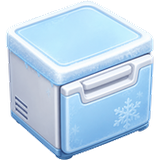
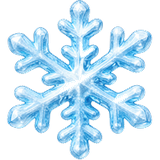
Rebost: icona de congelador = floc de neu de gel (Canva MAHZp05v1aM)
Claude-Session: https://claude.ai/code/session_01EDSP4xsThy8KRz6733WLVq

diff --git a/nova/index.html b/nova/index.html
@@ -499,7 +499,7 @@ html,body{-webkit-touch-callout:none;-webkit-user-select:none;user-select:none;-
 
 <script>/* xarxa de seguretat: si l'app no arrenca, botó per actualitzar */setTimeout(function(){var a=document.getElementById("app");if(a&&!a.innerHTML.trim()){a.innerHTML='<div style="padding:40px 20px;text-align:center;font:600 17px system-ui"><p>No s\'ha pogut obrir l\'app.</p><button id="sosup" style="font:700 17px system-ui;padding:12px 22px;border-radius:999px;border:0;background:#17599a;color:#fff">Actualitza</button></div>';document.getElementById("sosup").onclick=function(){(window.caches?caches.keys().then(function(k){return Promise.all(k.map(function(x){return caches.delete(x)}))}):Promise.resolve()).then(function(){location.reload()})};}},2500);</script>
 <script>
-const APPV="1793519597";let UPD=0,UPS=0;
+const APPV="1793519710";let UPD=0,UPS=0;
 
 const IC={"docs": "<svg viewBox=\"0 0 40 40\" width=\"22\" height=\"22\" aria-hidden=\"true\"><path d=\"M9 4h15l8 8v23a2 2 0 0 1-2 2H9a2 2 0 0 1-2-2V6a2 2 0 0 1 2-2z\" fill=\"#fff\" stroke=\"#5b6b7a\" stroke-width=\"1.5\"/><path d=\"M24 4v8h8\" fill=\"#e3e8ee\" stroke=\"#5b6b7a\" stroke-width=\"1.5\" stroke-linejoin=\"round\"/><circle cx=\"27\" cy=\"29\" r=\"8.5\" fill=\"#3f8a3a\" stroke=\"#fff\" stroke-width=\"1.6\"/><path d=\"M27 33.5v-9M23 28l4-4 4 4\" fill=\"none\" stroke=\"#fff\" stroke-width=\"2.2\" stroke-linecap=\"round\" stroke-linejoin=\"round\"/><path d=\"M12 17h10M12 21h7\" stroke=\"#9aa6b2\" stroke-width=\"1.6\" stroke-linecap=\"round\"/></svg>", "receptari": "<svg viewBox=\"0 0 40 40\" width=\"22\" height=\"22\" aria-hidden=\"true\"><path d=\"M6 7c5-2 10-2 14 1v27c-4-3-9-3-14-1z\" fill=\"#fff6e3\" stroke=\"#8a5a2b\" stroke-width=\"1.4\" stroke-linejoin=\"round\"/><path d=\"M34 7c-5-2-10-2-14 1v27c4-3 9-3 14-1z\" fill=\"#fff6e3\" stroke=\"#8a5a2b\" stroke-width=\"1.4\" stroke-linejoin=\"round\"/><path d=\"M4 9v26c6-2 11-2 16 1 5-3 10-3 16-1V9\" fill=\"none\" stroke=\"#c8352b\" stroke-width=\"2.4\" stroke-linejoin=\"round\"/><path d=\"M10 14h6M10 18h6M24 14h6M24 18h5\" stroke=\"#c9a46a\" stroke-width=\"1.5\" stroke-linecap=\"round\"/><path d=\"M27 24c0-2 3-2 3 0 0 2-3 3.5-3 3.5s-3-1.5-3-3.5c0-2 3-2 3 0z\" fill=\"#e0533f\"/></svg>", "menu": "<svg viewBox=\"0 0 40 40\" width=\"22\" height=\"22\" aria-hidden=\"true\"><rect x=\"5\" y=\"7\" width=\"30\" height=\"28\" rx=\"3\" fill=\"#fff\" stroke=\"#2f74b5\" stroke-width=\"1.5\"/><path d=\"M5 10a3 3 0 0 1 3-3h24a3 3 0 0 1 3 3v4H5z\" fill=\"#2f74b5\"/><path d=\"M12 4v6M28 4v6\" stroke=\"#1f4f80\" stroke-width=\"2.2\" stroke-linecap=\"round\"/><circle cx=\"20\" cy=\"25\" r=\"6.5\" fill=\"#f3e3c4\" stroke=\"#c9a46a\" stroke-width=\"1.3\"/><circle cx=\"20\" cy=\"25\" r=\"3.8\" fill=\"#fff\" stroke=\"#e2cfa6\" stroke-width=\"1\"/><path d=\"M10.5 20v10M9 20v3.5a1.5 1.5 0 0 0 3 0V20M29.5 20c1.6 0 1.8 3 1.8 4.6 0 1-.8 1.4-1.8 1.4V30\" fill=\"none\" stroke=\"#8a93a0\" stroke-width=\"1.2\" stroke-linecap=\"round\"/></svg>", "treball": "<svg viewBox=\"0 0 40 40\" width=\"22\" height=\"22\" aria-hidden=\"true\"><rect x=\"8\" y=\"6\" width=\"24\" height=\"30\" rx=\"3\" fill=\"#c98a4b\" stroke=\"#7a4a1e\" stroke-width=\"1.4\"/><rect x=\"11\" y=\"10\" width=\"18\" height=\"23\" rx=\"1.5\" fill=\"#fff\"/><rect x=\"15\" y=\"3.5\" width=\"10\" height=\"5\" rx=\"1.5\" fill=\"#9aa0a6\" stroke=\"#6b7177\" stroke-width=\"1\"/><path d=\"M14 16l2 2 3.5-3.5M14 23l2 2 3.5-3.5\" fill=\"none\" stroke=\"#3f8a3a\" stroke-width=\"1.9\" stroke-linecap=\"round\" stroke-linejoin=\"round\"/><path d=\"M22 17h5M22 24h5M14 29.5h13\" stroke=\"#b9bfc6\" stroke-width=\"1.6\" stroke-linecap=\"round\"/></svg>", "despesa": "<svg viewBox=\"0 0 40 40\" width=\"22\" height=\"22\" aria-hidden=\"true\"><path d=\"M8 4h20v31l-2.5-2-2.5 2-2.5-2-2.5 2-2.5-2-2.5 2-2.5-2L8 35z\" fill=\"#fff\" stroke=\"#7a838b\" stroke-width=\"1.4\" stroke-linejoin=\"round\"/><path d=\"M12 10h12M12 14h9M12 18h12\" stroke=\"#b9bfc6\" stroke-width=\"1.6\" stroke-linecap=\"round\"/><circle cx=\"27\" cy=\"27\" r=\"8\" fill=\"#f2c14a\" stroke=\"#c48a1a\" stroke-width=\"1.5\"/><path d=\"M29.6 23.6a4 4 0 1 0 0 6.8M22.8 25.8h5.4M22.8 28.2h5.4\" fill=\"none\" stroke=\"#8a5a10\" stroke-width=\"1.6\" stroke-linecap=\"round\"/></svg>", "hudsilo": "<svg aria-hidden=\"true\" width=\"30\" height=\"30\" viewBox=\"0 0 64 64\"><defs><linearGradient id=\"hsr\" x1=\"0\" x2=\"1\"><stop offset=\"0\" stop-color=\"#8f1a12\"/><stop offset=\".28\" stop-color=\"#d8392a\"/><stop offset=\".55\" stop-color=\"#e9503d\"/><stop offset=\"1\" stop-color=\"#9e2016\"/></linearGradient><linearGradient id=\"hsroof\" x1=\"0\" x2=\"1\"><stop offset=\"0\" stop-color=\"#3f3029\"/><stop offset=\".45\" stop-color=\"#7b6556\"/><stop offset=\"1\" stop-color=\"#4a3a31\"/></linearGradient><linearGradient id=\"hsgr\" x1=\"0\" y1=\"0\" x2=\"0\" y2=\"1\"><stop offset=\"0\" stop-color=\"#f7d36a\"/><stop offset=\".25\" stop-color=\"#e3a43a\"/><stop offset=\"1\" stop-color=\"#b8711e\"/></linearGradient><linearGradient id=\"hsmet\" x1=\"0\" x2=\"1\"><stop offset=\"0\" stop-color=\"#5d666e\"/><stop offset=\".5\" stop-color=\"#b9c2ca\"/><stop offset=\"1\" stop-color=\"#626b73\"/></linearGradient><linearGradient id=\"hsst\" x1=\"0\" y1=\"0\" x2=\"0\" y2=\"1\"><stop offset=\"0\" stop-color=\"#e4d8c6\"/><stop offset=\"1\" stop-color=\"#a99880\"/></linearGradient></defs><ellipse cx=\"32\" cy=\"58.5\" rx=\"17\" ry=\"4.2\" fill=\"url(#hsst)\" stroke=\"#7d6c56\" stroke-width=\"1.2\"/><path d=\"M17 17h30l-2.6 40.6c-6.2 2.2-18.6 2.2-24.8 0z\" fill=\"url(#hsr)\" stroke=\"#5f130c\" stroke-width=\"1.5\" stroke-linejoin=\"round\"/><path d=\"M22.4 18.5l1 40M27.6 18.6l.4 40.6M32.8 18.6v40.8M38 18.6l-.4 40.6M43.2 18.5l-1 40\" stroke=\"#7d160e\" stroke-width=\"1\" opacity=\".75\"/><path d=\"M20.2 18.8l1.6 38.4\" stroke=\"#f47b66\" stroke-width=\"1.6\" opacity=\".7\"/><path d=\"M17.3 27.5c8.6 2.8 20.8 2.8 29.4 0M18.3 44c8 2.6 19.4 2.6 27.4 0\" fill=\"none\" stroke=\"#5f130c\" stroke-width=\"3.4\" opacity=\".35\"/><path d=\"M17.3 27c8.6 2.8 20.8 2.8 29.4 0M18.3 43.5c8 2.6 19.4 2.6 27.4 0\" fill=\"none\" stroke=\"#fbf6ee\" stroke-width=\"2.4\"/><path d=\"M28.4 21.5h7.2l-1.2 33h-4.8z\" fill=\"#fbf6ee\" stroke=\"#6b1a10\" stroke-width=\"1\"/><path d=\"M29.9 23.2h4.2l-1 29.6h-2.2z\" fill=\"#5d120b\"/><path d=\"M30.4 36.5h3.4l-.7 16.3h-2.2z\" fill=\"url(#hsgr)\"/><path d=\"M30.2 37c.3-4.4 3.5-4.4 3.8 0z\" fill=\"#f7d36a\" stroke=\"#c48a26\" stroke-width=\".5\"/><circle cx=\"31.4\" cy=\"34.8\" r=\".5\" fill=\"#fff3c4\"/><circle cx=\"32.8\" cy=\"35.6\" r=\".4\" fill=\"#fff3c4\"/><path d=\"M19.5 41l-2.6.6.4 14.8M44.5 41l2.6.6-.4 14.8\" fill=\"none\" stroke=\"url(#hsmet)\" stroke-width=\"2.4\" stroke-linecap=\"round\" stroke-linejoin=\"round\"/><rect x=\"15.6\" y=\"55.3\" width=\"3.4\" height=\"2\" rx=\".6\" fill=\"#7d868f\" stroke=\"#3f464c\" stroke-width=\".6\"/><rect x=\"45\" y=\"55.3\" width=\"3.4\" height=\"2\" rx=\".6\" fill=\"#7d868f\" stroke=\"#3f464c\" stroke-width=\".6\"/><path d=\"M46 21.4h4.4v3.4\" fill=\"none\" stroke=\"url(#hsmet)\" stroke-width=\"2.2\" stroke-linecap=\"round\"/><path d=\"M50.4 24.8c1.4 4 .6 8 -1 10\" fill=\"none\" stroke=\"#a87c4f\" stroke-width=\".9\"/><path d=\"M32 3.5 14.2 17.4c5 2.4 30.6 2.4 35.6 0z\" fill=\"url(#hsroof)\" stroke=\"#2a201b\" stroke-width=\"1.5\" stroke-linejoin=\"round\"/><path d=\"M32 4.4l-7.6 13.8M32 4.4l7.2 13.8\" stroke=\"#8d7766\" stroke-width=\".8\" opacity=\".6\"/><path d=\"M21.6 11l6.2-2.2 2.4 4.2-6.4 2.2z\" fill=\"#d3d9de\" stroke=\"#5f676e\" stroke-width=\"1\"/><path d=\"M24.4 11.6l2.4-.8\" stroke=\"#5f676e\" stroke-width=\"1\" stroke-linecap=\"round\"/></svg>", "shopico": "<svg aria-hidden=\"true\" width=\"34\" height=\"34\" viewBox=\"0 0 64 64\"><defs><linearGradient id=\"bw\" x1=\"0\" x2=\"0\" y1=\"0\" y2=\"1\"><stop offset=\"0\" stop-color=\"#9c5f30\"/><stop offset=\"1\" stop-color=\"#6a3b19\"/></linearGradient><linearGradient id=\"bp\" x1=\"0\" x2=\"1\"><stop offset=\"0\" stop-color=\"#6f4120\"/><stop offset=\".5\" stop-color=\"#a86a35\"/><stop offset=\"1\" stop-color=\"#6f4120\"/></linearGradient><linearGradient id=\"bc\" x1=\"0\" x2=\"0\" y1=\"0\" y2=\"1\"><stop offset=\"0\" stop-color=\"#e4b47a\"/><stop offset=\"1\" stop-color=\"#b9824a\"/></linearGradient><linearGradient id=\"bcin\" x1=\"0\" x2=\"0\" y1=\"0\" y2=\"1\"><stop offset=\"0\" stop-color=\"#7a4a24\"/><stop offset=\"1\" stop-color=\"#a86e3c\"/></linearGradient><linearGradient id=\"awr\" x1=\"0\" x2=\"0\" y1=\"0\" y2=\"1\"><stop offset=\"0\" stop-color=\"#f05a48\"/><stop offset=\"1\" stop-color=\"#c62a20\"/></linearGradient><linearGradient id=\"aww\" x1=\"0\" x2=\"0\" y1=\"0\" y2=\"1\"><stop offset=\"0\" stop-color=\"#ffffff\"/><stop offset=\"1\" stop-color=\"#e9ddd0\"/></linearGradient><radialGradient id=\"ar\" cx=\".35\" cy=\".35\" r=\".7\"><stop offset=\"0\" stop-color=\"#ff8a7a\"/><stop offset=\".5\" stop-color=\"#e3261c\"/><stop offset=\"1\" stop-color=\"#9c120c\"/></radialGradient><radialGradient id=\"ag\" cx=\".35\" cy=\".35\" r=\".7\"><stop offset=\"0\" stop-color=\"#d9ff9a\"/><stop offset=\".5\" stop-color=\"#6cc43a\"/><stop offset=\"1\" stop-color=\"#2f7a1a\"/></radialGradient><linearGradient id=\"bk\" x1=\"0\" x2=\"1\"><stop offset=\"0\" stop-color=\"#7a4a24\"/><stop offset=\".5\" stop-color=\"#c0814a\"/><stop offset=\"1\" stop-color=\"#7a4a24\"/></linearGradient></defs><path d=\"M4 50l10-5h40l4 6-10 7H8z\" fill=\"url(#bw)\" stroke=\"#3f230e\" stroke-width=\"1.3\" stroke-linejoin=\"round\"/><path d=\"M12 47l-3 9M20 46l-3 11M28 46l-2 12M36 46l-1 12M44 46l1 12M52 47l2 9\" stroke=\"#4a2a12\" stroke-width=\".9\" opacity=\".7\"/><rect x=\"49\" y=\"12\" width=\"3.6\" height=\"40\" rx=\"1\" fill=\"url(#bp)\" stroke=\"#3f230e\" stroke-width=\"1.1\"/><rect x=\"13.2\" y=\"18\" width=\"3.4\" height=\"28\" rx=\"1\" fill=\"url(#bp)\" stroke=\"#3f230e\" stroke-width=\"1.1\"/><path d=\"M16 40h32v9H17z\" fill=\"#a8622e\" stroke=\"#4a2a12\" stroke-width=\"1.1\"/><path d=\"M17 44.5h31\" stroke=\"#7a431c\" stroke-width=\".9\"/><path d=\"M13 37.5l34-5 4 7.6-35 5.4z\" fill=\"#f1dfbd\" stroke=\"#6b3f17\" stroke-width=\"1.1\" stroke-linejoin=\"round\"/><path d=\"M15 36.5l31.6-4.8 3 6-32 4.9z\" fill=\"url(#bc)\" stroke=\"#5e3614\" stroke-width=\"1.1\" stroke-linejoin=\"round\"/><path d=\"M18.4 37.6l9-1.4 1 2.6-9 1.4zM29.4 35.9l9-1.4 1 2.6-9 1.4zM40.2 34.3l6-.9 1.1 2.6-6.1.9zM19.6 39.9l9-1.4.9 1.4-9 1.4zM30.6 38.2l9-1.4.9 1.4-9 1.4z\" fill=\"url(#bcin)\"/><path d=\"M27.4 36.2l2.1 4.3M38.4 34.5l2 4.3\" stroke=\"#5e3614\" stroke-width=\"1.2\"/><path d=\"M8.5 15.5C14 9 38 5.5 54 9.5l1.6 5\" fill=\"none\" stroke=\"#7a1e14\" stroke-width=\"1.4\"/><path d=\"M8.5 15.5 10 24.5c2.4 2 5.2 1.6 6.4-.6 2.2 2.1 5 1.8 6.3-.5 2.2 2 5 1.7 6.2-.6 2.2 2 5 1.6 6.2-.6 2.2 1.9 5 1.6 6.1-.7 2.2 1.9 4.9 1.5 6-.8 2.1 1.7 4.7 1.3 5.6-1L54 9.5C38 5.5 14 9 8.5 15.5z\" fill=\"url(#aww)\" stroke=\"#7a1e14\" stroke-width=\"1.4\" stroke-linejoin=\"round\"/><path d=\"M10 24.5c2.4 2 5.2 1.6 6.4-.6l-1.4-11.6-6.5 3.2zM22.7 23.4c2.2 2 5 1.7 6.2-.6l-1.2-13-6.7 1.4zM35.1 22.2c2.2 1.9 5 1.6 6.1-.7l-.6-13.1-6.6.4zM47.2 20.7c2.1 1.7 4.7 1.3 5.6-1L54 9.5l-6.4-1.1z\" fill=\"url(#awr)\"/><path d=\"M10.5 16.4c8-4.2 28-6 42.4-3.4\" fill=\"none\" stroke=\"#fff\" stroke-width=\"1\" opacity=\".55\"/><circle cx=\"31\" cy=\"7.3\" r=\"1.3\" fill=\"#a9b2ba\" stroke=\"#5f676e\" stroke-width=\".6\"/><circle cx=\"53.6\" cy=\"9.6\" r=\"1.3\" fill=\"#a9b2ba\" stroke=\"#5f676e\" stroke-width=\".6\"/><path d=\"M2.5 48.5h12l-1.4 9.5H4z\" fill=\"url(#bk)\" stroke=\"#4a2a12\" stroke-width=\"1.1\"/><path d=\"M3.2 52.3h10.6\" stroke=\"#9aa3ab\" stroke-width=\"1.6\"/><circle cx=\"5.6\" cy=\"47.2\" r=\"2.6\" fill=\"url(#ag)\"/><circle cx=\"9.4\" cy=\"46.4\" r=\"2.7\" fill=\"url(#ag)\"/><circle cx=\"12.3\" cy=\"47.6\" r=\"2.3\" fill=\"url(#ag)\"/><path d=\"M47 51.5h12l-1.4 9.5h-9.2z\" fill=\"url(#bk)\" stroke=\"#4a2a12\" stroke-width=\"1.1\"/><path d=\"M47.7 55.3h10.6\" stroke=\"#9aa3ab\" stroke-width=\"1.6\"/><circle cx=\"50.2\" cy=\"50.2\" r=\"2.6\" fill=\"url(#ar)\"/><circle cx=\"54\" cy=\"49.4\" r=\"2.7\" fill=\"url(#ar)\"/><circle cx=\"56.8\" cy=\"50.6\" r=\"2.3\" fill=\"url(#ar)\"/><path d=\"M54 46.8l.4-1.4\" stroke=\"#4a2a12\" stroke-width=\".8\"/></svg>", "veiico": "<svg aria-hidden=\"true\" width=\"32\" height=\"32\" viewBox=\"0 0 64 64\"><path d=\"M2 47c10-5 21-6 30-4s20 3 30-2v19H2z\" fill=\"#7fb944\"/><g stroke=\"#6b4423\" stroke-width=\"1.8\" stroke-linejoin=\"round\"><rect x=\"5\" y=\"32\" width=\"15\" height=\"14\" rx=\"1\" fill=\"#fbf1dc\"/><path d=\"M3 33.5 12.5 22 22 33.5z\" fill=\"#d1453b\"/><rect x=\"44\" y=\"32\" width=\"15\" height=\"14\" rx=\"1\" fill=\"#fbf1dc\"/><path d=\"M42 33.5 51.5 22 61 33.5z\" fill=\"#eaa63a\"/><rect x=\"38\" y=\"15\" width=\"4.5\" height=\"9\" fill=\"#a8562c\"/><rect x=\"19\" y=\"28\" width=\"26\" height=\"21\" rx=\"1.2\" fill=\"#fffaf0\"/><path d=\"M16 30 32 14l16 16z\" fill=\"#6e8c3c\"/><rect x=\"28.5\" y=\"38\" width=\"7\" height=\"11\" rx=\"1\" fill=\"#9a5a2b\"/></g><rect x=\"22.5\" y=\"32\" width=\"4.5\" height=\"4\" fill=\"#8cc7ec\"/><rect x=\"37\" y=\"32\" width=\"4.5\" height=\"4\" fill=\"#8cc7ec\"/></svg>", "crea": "<svg viewBox=\"0 0 40 40\" width=\"22\" height=\"22\" aria-hidden=\"true\"><path d=\"M8 4h15l7 7v24a2 2 0 0 1-2 2H8a2 2 0 0 1-2-2V6a2 2 0 0 1 2-2z\" fill=\"#fff\" stroke=\"#5b6b7a\" stroke-width=\"1.5\"/><path d=\"M23 4v7h7\" fill=\"#e3e8ee\" stroke=\"#5b6b7a\" stroke-width=\"1.5\" stroke-linejoin=\"round\"/><path d=\"M11 15h11M11 19h12M11 23h7\" stroke=\"#9aa6b2\" stroke-width=\"1.6\" stroke-linecap=\"round\"/><path d=\"M20 30 31 19l4 4-11 11z\" fill=\"#eaa63a\" stroke=\"#8a5a2b\" stroke-width=\"1.3\" stroke-linejoin=\"round\"/><path d=\"M31 19l1.6-1.6a1.4 1.4 0 0 1 2 0l2 2a1.4 1.4 0 0 1 0 2L35 23z\" fill=\"#e0533f\" stroke=\"#8a5a2b\" stroke-width=\"1.3\" stroke-linejoin=\"round\"/><path d=\"M20 30l4 4-6 2z\" fill=\"#f3e3c4\" stroke=\"#8a5a2b\" stroke-width=\"1.3\" stroke-linejoin=\"round\"/><path d=\"M18.6 34.4 18 36l1.6-.6z\" fill=\"#3d3d3d\"/></svg>", "qc": "<svg viewBox=\"0 0 40 40\" width=\"22\" height=\"22\" aria-hidden=\"true\"><path d=\"M15.5 19 20.3 7.2l3.3 1.3-3.4 10.8z\" fill=\"#eaa63a\" stroke=\"#a8562c\" stroke-width=\"1.3\" stroke-linejoin=\"round\"/><path d=\"M18 13.5l2 .8M17 16l1.8.7\" stroke=\"#a8562c\" stroke-width=\"1\" stroke-linecap=\"round\"/><path d=\"M21.5 7.6c-.9-2.6.2-4.3 1.6-4.9.6 1.8.4 3.6-.9 5.2zM22.3 8c1.6-2 3.6-2.2 5-1.4-1.3 1.3-3 1.9-5 1.4z\" fill=\"#7fb944\" stroke=\"#4f7a2a\" stroke-width=\"1\" stroke-linejoin=\"round\"/><path d=\"M25.5 19c-.3-4.2 1.9-7.2 5.6-8.4-.1 3.8-2 6.8-5.6 8.4z\" fill=\"#7fb944\" stroke=\"#4f7a2a\" stroke-width=\"1.2\" stroke-linejoin=\"round\"/><path d=\"M7 20h26v8a7 7 0 0 1-7 7H14a7 7 0 0 1-7-7z\" fill=\"#d8392a\" stroke=\"#8f1a12\" stroke-width=\"1.5\" stroke-linejoin=\"round\"/><path d=\"M4.5 19.5h31\" stroke=\"#8f1a12\" stroke-width=\"2.6\" stroke-linecap=\"round\"/><path d=\"M7 23.5H3.5M33 23.5h3.5\" stroke=\"#8f1a12\" stroke-width=\"2.4\" stroke-linecap=\"round\"/><path d=\"M11 24v4.5\" stroke=\"#f08a7a\" stroke-width=\"1.8\" stroke-linecap=\"round\"/></svg>", "casa": "<svg viewBox=\"0 0 40 40\" width=\"22\" height=\"22\" aria-hidden=\"true\"><ellipse cx=\"20\" cy=\"37.2\" rx=\"14\" ry=\"1.6\" fill=\"#000\" opacity=\".13\"/><path d=\"M7 19 20 7l13 12v17H7z\" fill=\"#f3e3c4\" stroke=\"#7a4a1e\" stroke-width=\"1.3\" stroke-linejoin=\"round\"/><path d=\"M4 20.5 20 5.5l16 15\" fill=\"none\" stroke=\"#c8352b\" stroke-width=\"3.4\" stroke-linecap=\"round\" stroke-linejoin=\"round\"/><rect x=\"26\" y=\"8\" width=\"4\" height=\"7\" fill=\"#9b5a2b\"/><rect x=\"16.5\" y=\"25\" width=\"7\" height=\"11\" rx=\"1\" fill=\"#9b5a2b\"/><path d=\"M14 21.5a3 3 0 0 1 6 0c0 2.6-3 4.4-3 4.4s-3-1.8-3-4.4zM20 21.5a3 3 0 0 1 6 0c0 2.6-3 4.4-3 4.4\" fill=\"none\"/><path d=\"M17.2 18.6c-1.6-1.6-4.2-.2-3.6 2 .5 1.8 3.6 3.6 3.6 3.6s3.1-1.8 3.6-3.6c.6-2.2-2-3.6-3.6-2z\" fill=\"#e0533f\" transform=\"translate(2.8 -1.2)\"/></svg>", "graner": "<svg viewBox=\"0 0 40 40\" width=\"22\" height=\"22\" aria-hidden=\"true\"><ellipse cx=\"20\" cy=\"37.2\" rx=\"15\" ry=\"1.6\" fill=\"#000\" opacity=\".13\"/><path d=\"M6 17.5 9.5 9.5 20 4.5 30.5 9.5 34 17.5V36H6z\" fill=\"#c8352b\" stroke=\"#7d1d17\" stroke-width=\"1.1\" stroke-linejoin=\"round\"/><path d=\"M3.5 18.5 8.4 8.2 20 2.8 31.6 8.2 36.5 18.5\" fill=\"none\" stroke=\"#2f3236\" stroke-width=\"3.2\" stroke-linecap=\"round\" stroke-linejoin=\"round\"/><path d=\"M9 21h22\" stroke=\"#fff\" stroke-width=\"1.6\"/><path d=\"M10 12.4 9.6 13\" stroke=\"#a52a22\" stroke-width=\".8\"/><path d=\"M12 24v12M28 24v12\" stroke=\"#a52a22\" stroke-width=\".8\" opacity=\".7\"/><rect x=\"16.5\" y=\"9.8\" width=\"7\" height=\"6.4\" fill=\"#fff\" stroke=\"#7d1d17\" stroke-width=\".6\"/><path d=\"M16.5 9.8 23.5 16.2M23.5 9.8 16.5 16.2\" stroke=\"#c8352b\" stroke-width=\"1.1\"/><rect x=\"13.5\" y=\"23.5\" width=\"13\" height=\"12.5\" fill=\"#fff\"/><rect x=\"15\" y=\"25\" width=\"10\" height=\"11\" fill=\"#8e2219\"/><path d=\"M15 25 25 36M25 25 15 36\" stroke=\"#fff\" stroke-width=\"1.3\"/><path d=\"M20 25v11\" stroke=\"#fff\" stroke-width=\"1\"/><rect x=\"5.5\" y=\"35.5\" width=\"29\" height=\"1.6\" rx=\".8\" fill=\"#9aa0a6\"/></svg>", "cart": "<svg viewBox=\"0 0 40 40\" width=\"28\" height=\"28\" aria-hidden=\"true\"><path d=\"M3 7h5l4 20h20\" fill=\"none\" stroke=\"#1f4f80\" stroke-width=\"2.4\" stroke-linecap=\"round\" stroke-linejoin=\"round\"/><path d=\"M9.5 12h26l-3 12H12z\" fill=\"#fff\" stroke=\"#2f74b5\" stroke-width=\"1.6\" stroke-linejoin=\"round\"/><path d=\"M15 12.5 18 5.5l3 1.2-2.4 5.8z\" fill=\"#eaa63a\" stroke=\"#a8562c\" stroke-width=\"1.1\" stroke-linejoin=\"round\"/><path d=\"M22 12c.2-3.6 2.2-6 5.4-6.8-.3 3.2-2 5.6-5.4 6.8z\" fill=\"#7fb944\" stroke=\"#4f7a2a\" stroke-width=\"1.1\" stroke-linejoin=\"round\"/><circle cx=\"27\" cy=\"9.5\" r=\"2.6\" fill=\"#d8392a\" stroke=\"#8f1a12\" stroke-width=\"1\"/><path d=\"M15 17h15M14 21h15\" stroke=\"#9aa6b2\" stroke-width=\"1.4\" stroke-linecap=\"round\"/><circle cx=\"14\" cy=\"32\" r=\"2.6\" fill=\"#3d3d3d\"/><circle cx=\"29\" cy=\"32\" r=\"2.6\" fill=\"#3d3d3d\"/></svg>"};
 const PI=n=>`<img class="pi" src="img/${n}.png" alt="" aria-hidden="true">`;Object.assign(IC,{menu:PI("nav_menu"),cart:PI("icona_compra"),receptari:PI("nav_receptari"),despesa:PI("nav_despesa"),crea:PI("nav_crea"),qc:PI("nav_que_cuino"),hudsilo:PI("hud_sitja"),shopico:PI("hud_botiga_37"),veiico:PI("hud_veinat")});
